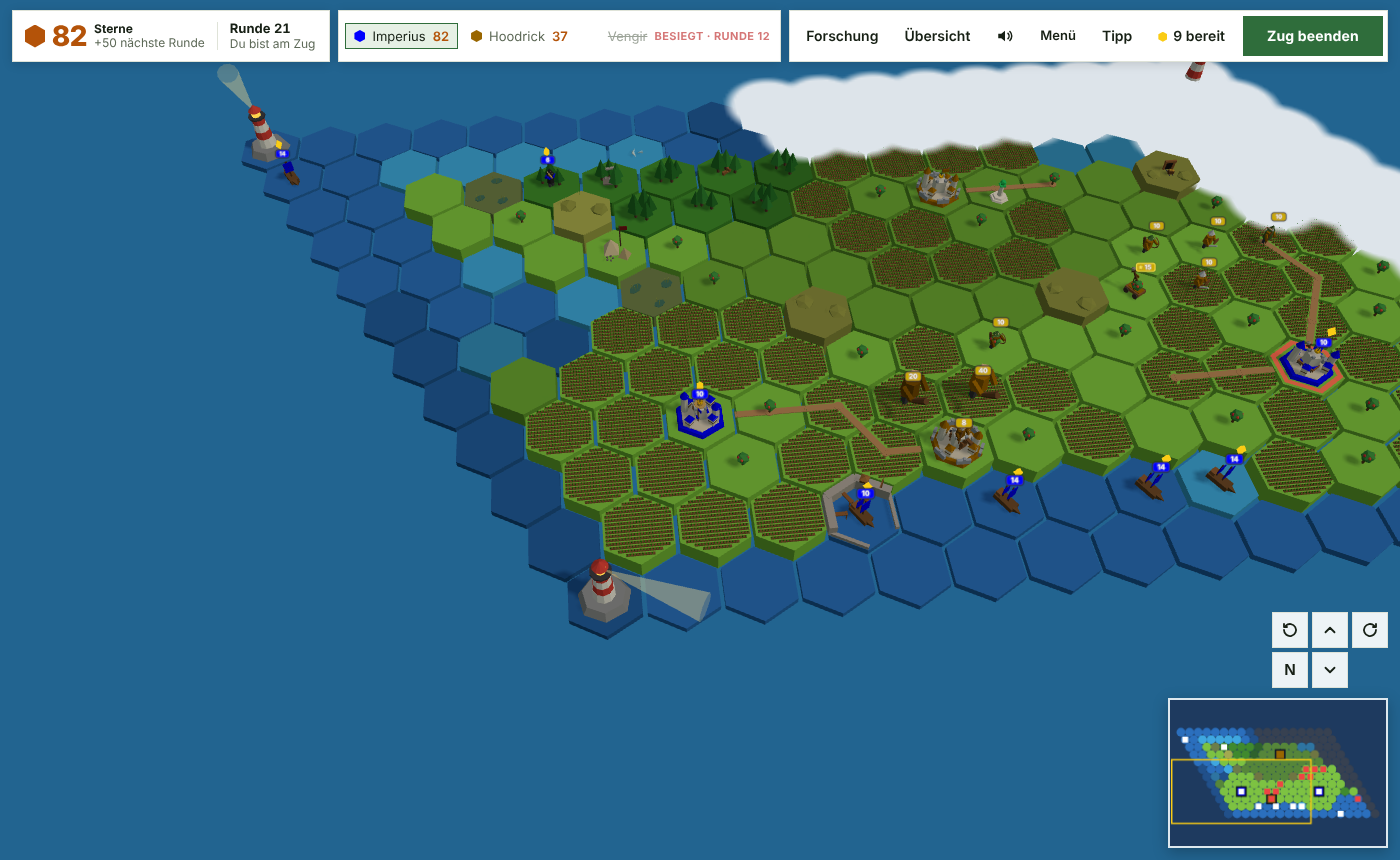
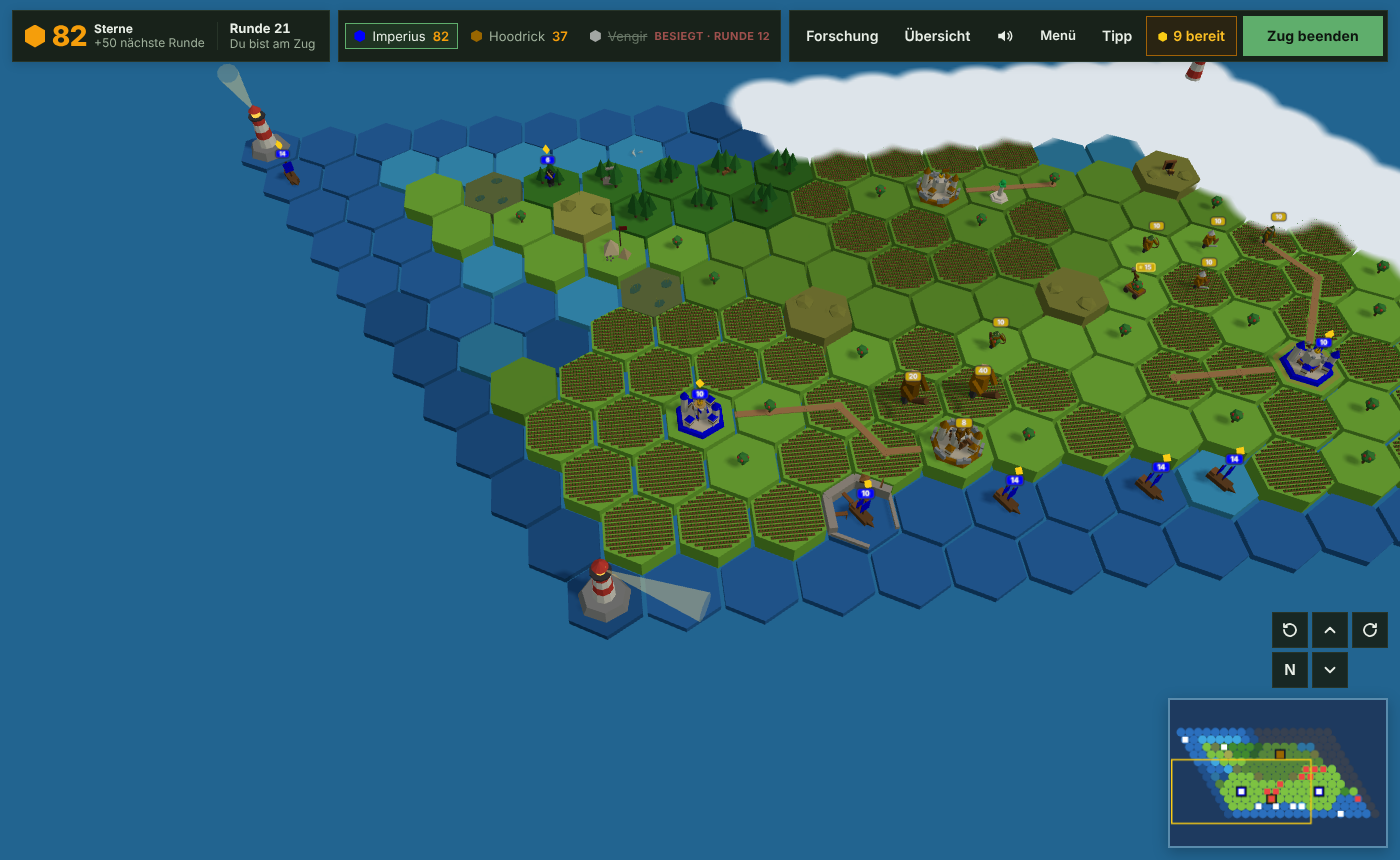
Screenshots in dunkler Darstellung, dazu das Hauptmenü
Claude-Session: https://claude.ai/code/session_01BP1Dw3L4r8SAWR34sJ9C5i

Changed region(s): [[0.0, 0.0, 1.0, 0.0907], [0.8907, 0.6953, 1.0, 0.8163], [0.8907, 0.393, 0.9829, 0.4535]]

diff --git a/README.md b/README.md
@@ -26,6 +26,8 @@ Turn-based conquest in the browser, inspired by *The Battle of Polytopia*: found
 - **Controls** with mouse and keyboard or touch; moving and attacking take two taps so nothing happens by accident. No undo – every move counts.
 - **Light or dark:** follows the system setting or can be set manually.
 
+![Main menu in dark mode: game modes, daily and weekly challenge, tribe selection and game settings](docs/menu.png)
+
 ![Selected capital: sign with level and income at the city, the toolbar at the bottom with Build, Population and units](docs/city.png)
 
 ![Build window: the city area in 3D with the yield of each tile, on the right the building options for the selected tile](docs/build.png)
